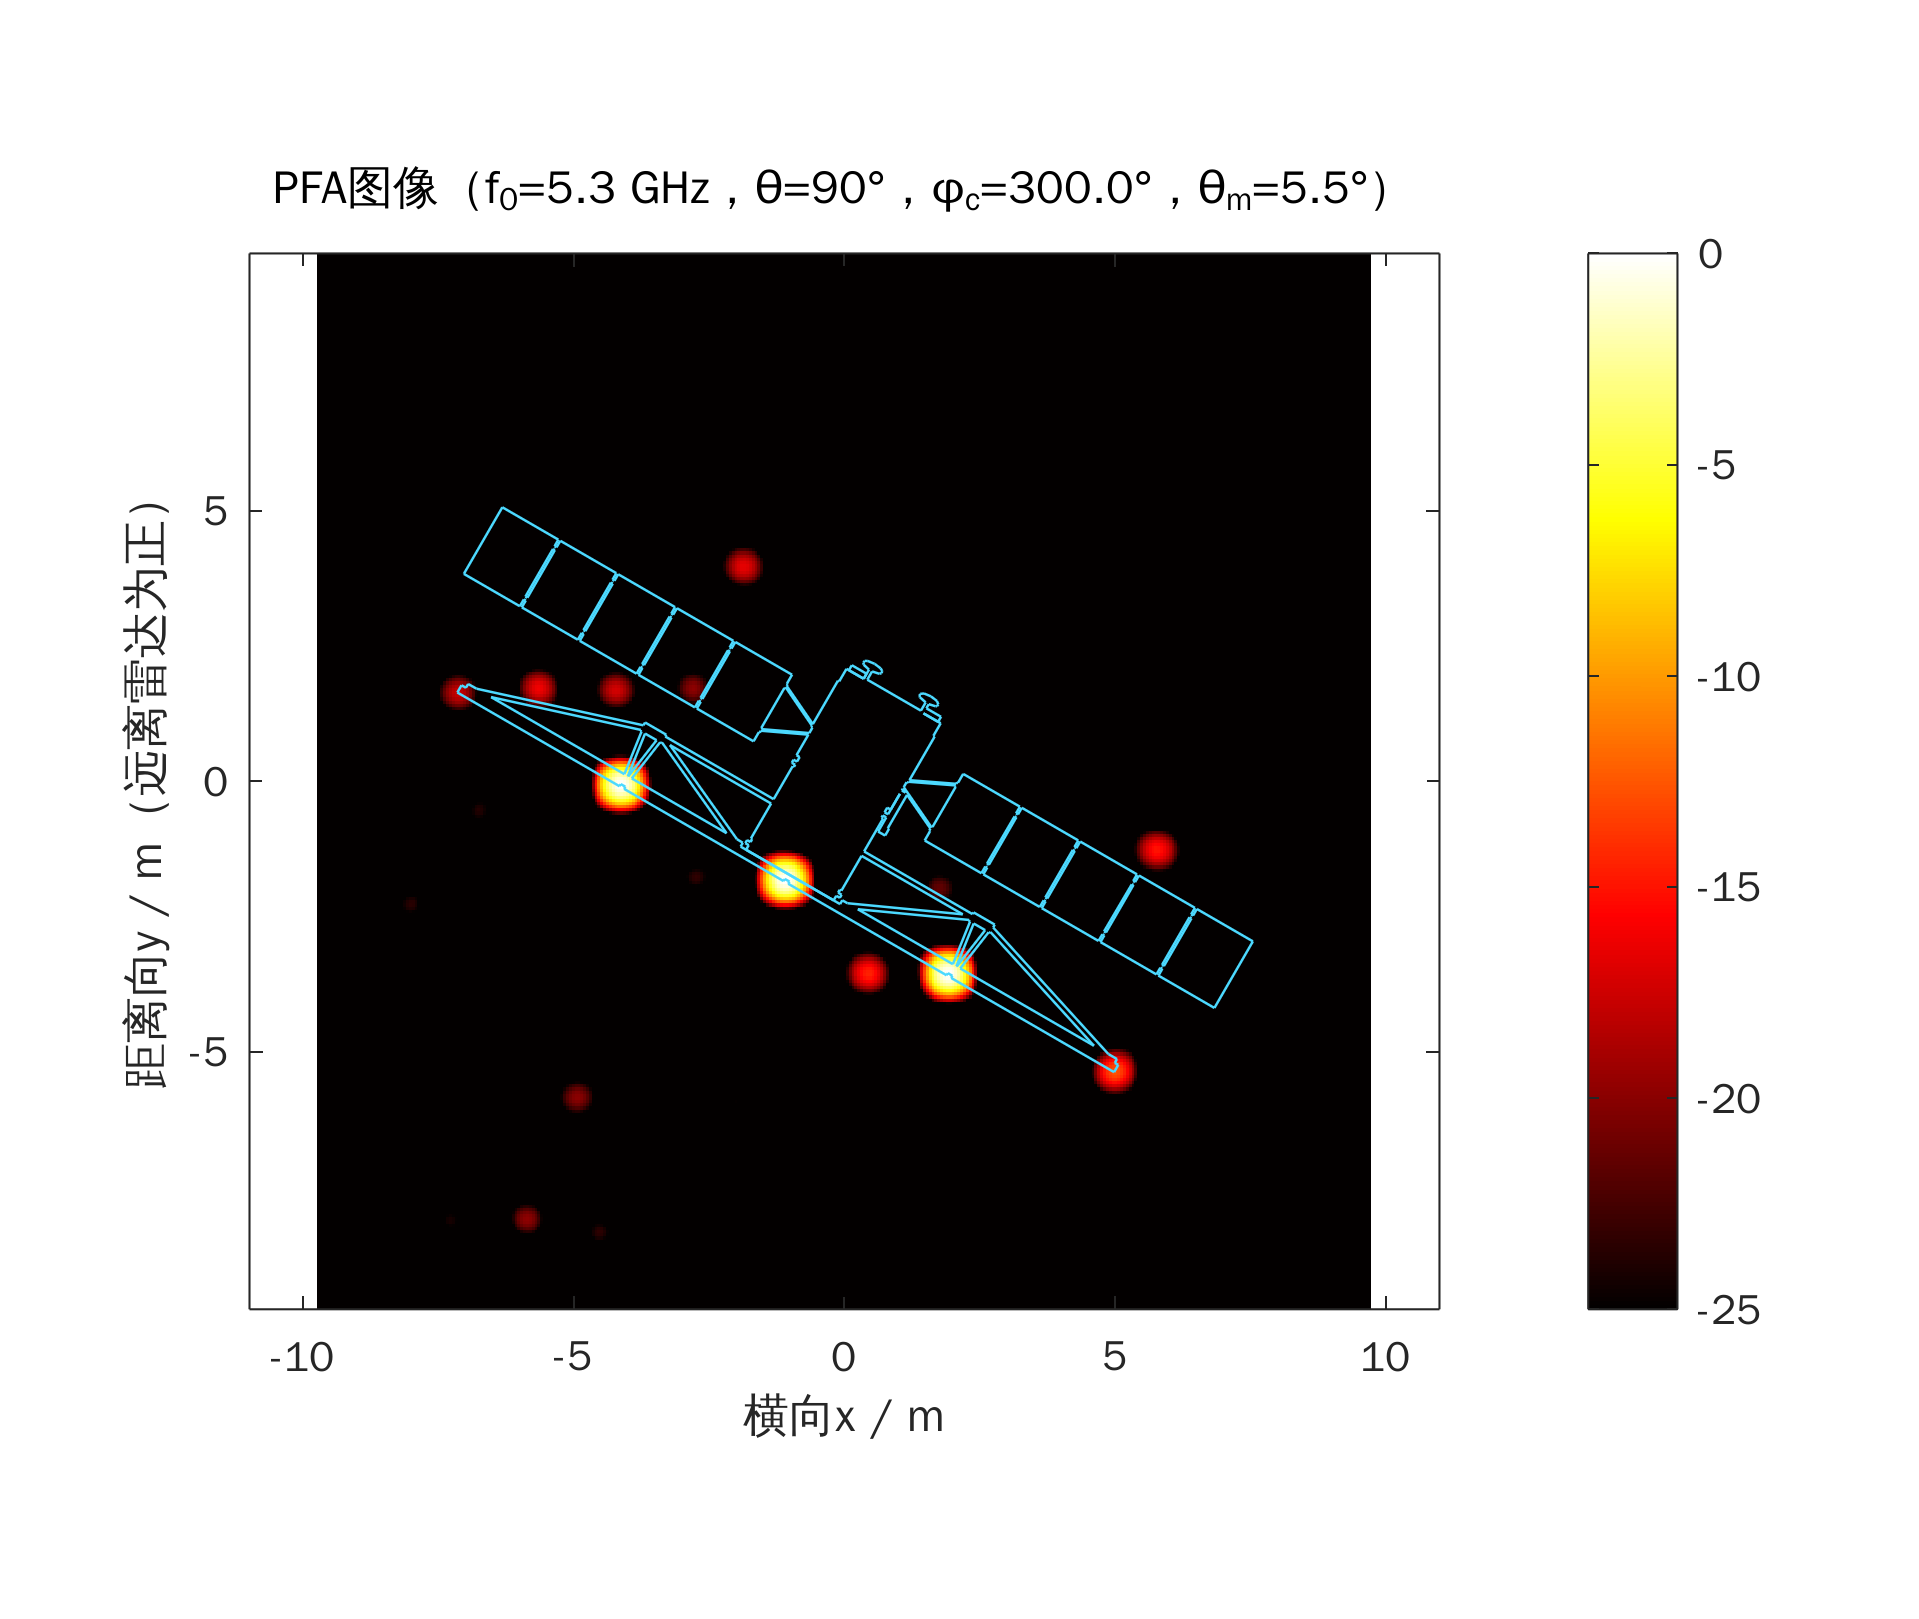
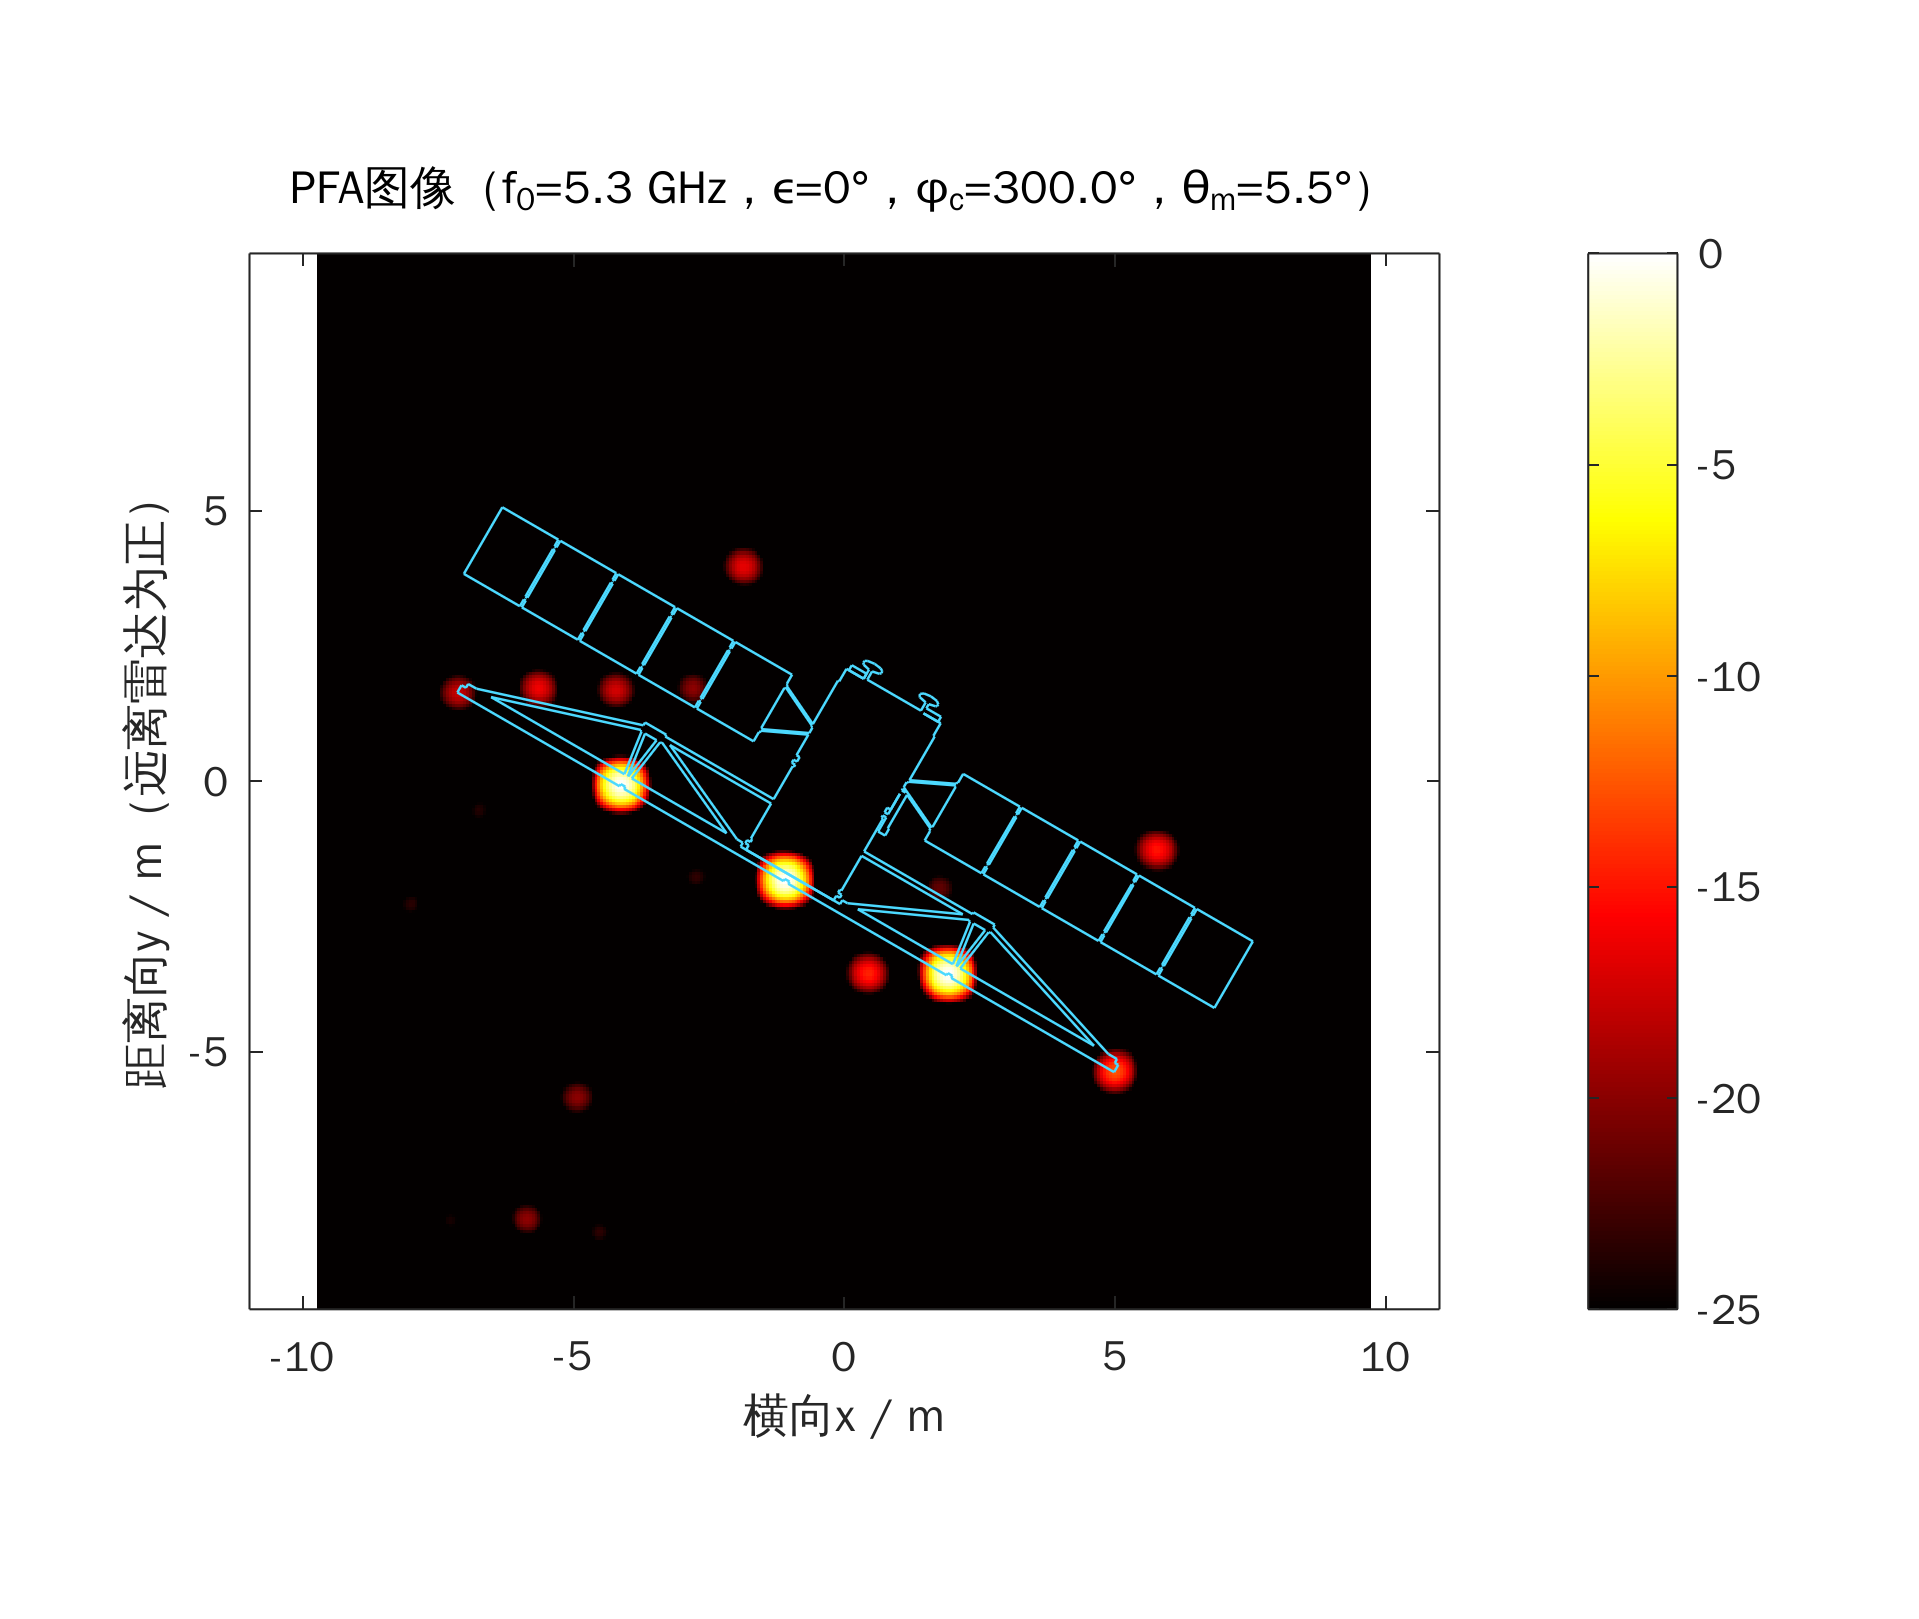
俯仰角统一记为ε（FEKO中θ=90°-ε）；参数设计计入俯仰修正与宽角扫描选项；补充计算A、B的FEKO设置
Claude-Session: https://claude.ai/code/session_01725vZYNoW8xbX1mxdUcgoL

Changed region(s): [[0.1537, 0.0926, 0.7071, 0.1235]]

diff --git a/isar/design_params.m b/isar/design_params.m
@@ -19,7 +19,10 @@ model_mode = 'radarsat1'; % 'radarsat1'：NASA RADARSAT-1模型（STL）；'sate
 rho_design = 0.3; % 设计分辨率（距离、横向相同），m；决定带宽与总转角
 os_ua = 1.5; % 不模糊窗口相对目标尺寸的余量：c/(2*delta_f)>os_ua*L，lambda/(2*delta_phi)>os_ua*L
 phi_c_deg = 300; % 中心观测方位角（FEKO的phi），deg；270°为正对-y方向（平板镜面闪烁）
-theta_inc_deg = 90; % 雷达俯仰：FEKO的theta，90°表示雷达位于xy平面内（转台平面）
+epsilon_deg = 0; % 雷达俯仰角ε，deg：0°为雷达与目标同高（在xy平面内），30°为雷达位于斜上方30°
+theta_inc_deg = 90-epsilon_deg; % FEKO平面波入射方向的天顶角θ（从+z轴量起）= 90°-ε
+phi_span_deg = 0; % 宽角扫描的总方位范围，deg；0表示只扫一个子孔径（总转角theta_m）。子孔径融合时如设为60
+c_el = cos(epsilon_deg*pi/180); % 俯仰修正：空间频率在xy平面内的分量为K*cos(ε)，水平面上的分辨率与窗口均除以cos(ε)
 pol_mode = 'VV'; % 'VV'：eta=0°，接收Etheta；'HH'：eta=90°，接收Ephi
 t_per_point = 0.18; % 每个(频点,角度)单站解的耗时，s；5.3 GHz、RL-GO射线密度Low实测（Normal约2.9 s/点）
 
@@ -55,36 +58,43 @@ target_radius = L/2; % 最大转动半径，m
 c = 3e8; % 光速，m/s
 f0 = 5.3e9; % 中心频率，Hz（C波段，RADARSAT-1自身SAR的工作频率；试算表明比X波段射线数少、计算快得多）
 lambda = c/f0; % 中心波长，m
-Br = c/(2*rho_design); % 扫频带宽，Hz
-rho_r = c/(2*Br); % 距离向理论分辨率，m（矩形窗）
+Br = c/(2*rho_design*c_el); % 扫频带宽，Hz（水平面上距离分辨率为rho_design）
+rho_r = c/(2*Br)/c_el; % 距离向理论分辨率（水平面投影，矩形窗），m
 f_min = f0-Br/2; f_max = f0+Br/2; % 扫频起止，Hz
 lambda_min = c/f_max; % 最短波长，m，用于角度采样的保守设计
 
 % 频率步进：不模糊距离 R_ua=c/(2*delta_f) 必须大于 os_ua*L
-delta_f_max = c/(2*os_ua*L); % 允许的最大频率步进，Hz
-% 把上限向下取到{1,2,2.5,5}×10^n序列中的“整”数
-p10 = 10^floor(log10(delta_f_max)); m_nice = [1,2,2.5,5,10];
+delta_f_max = c/(2*os_ua*L*c_el); % 允许的最大频率步进，Hz
+% 把上限向下取到{1,1.25,2,2.5,4,5,6.25,8}×10^n序列中的“整”数
+p10 = 10^floor(log10(delta_f_max)); m_nice = [1,1.25,2,2.5,4,5,6.25,8,10];
 delta_f = p10*m_nice(find(m_nice*p10<=delta_f_max,1,'last'));
 Nf = round(Br/delta_f)+1; % 频点数（含两端点）
-R_ua = c/(2*delta_f); % 不模糊距离窗，m
+R_ua = c/(2*delta_f)/c_el; % 不模糊距离窗（水平面投影），m
 f_axis = f_min+(0:Nf-1)*delta_f; % 频率轴，Hz
 
 %% 方位向参数（转角）
 % 横向分辨率 rho_a = lambda/(2*theta_m)，令 rho_a ≈ rho_r
 res_a = rho_design; % 希望达到的横向分辨率，m
-theta_m = lambda/(2*res_a); % 所需总转角，rad
+theta_m = lambda/(2*res_a*c_el); % 所需总转角（单个子孔径），rad
 % 角度步进：横向不模糊窗 X_ua = lambda_min/(2*delta_phi) 必须大于 os_ua*L
-delta_phi_max = lambda_min/(2*os_ua*L); % rad
-delta_phi_deg = floor(delta_phi_max*180/pi*100)/100; % 向下取到0.01°，便于在FEKO中填写
+delta_phi_max = lambda_min/(2*os_ua*L*c_el); % rad
+delta_phi_deg = floor(delta_phi_max*180/pi*200)/200; % 向下取到0.005°，便于在FEKO中填写
 delta_phi = delta_phi_deg*pi/180;
 % 角度点数：使总转角不小于所需值；再由步进反推实际总转角（保证FEKO中的数都是整齐的）
-Naz = ceil(theta_m*180/pi/delta_phi_deg)+1; % 角度点数（含两端点）
-theta_m_deg = delta_phi_deg*(Naz-1);
+Naz_sub = ceil(theta_m*180/pi/delta_phi_deg)+1; % 单个子孔径的角度点数（含两端点）
+theta_m_deg = delta_phi_deg*(Naz_sub-1);
 theta_m = theta_m_deg*pi/180;
-rho_a = lambda/(2*theta_m); % 实际理论横向分辨率，m
-X_ua = lambda_min/(2*delta_phi); % 横向不模糊窗（最高频处，最保守），m
-phi_start_deg = phi_c_deg-theta_m_deg/2; % FEKO中phi扫描起点，deg
-phi_end_deg = phi_c_deg+theta_m_deg/2; % FEKO中phi扫描终点，deg
+rho_a = lambda/(2*theta_m)/c_el; % 实际理论横向分辨率（水平面投影），m
+X_ua = lambda_min/(2*delta_phi)/c_el; % 横向不模糊窗（最高频处，最保守），m
+% FEKO中的方位扫描：单孔径时就是theta_m；宽角时为phi_span_deg（取步进的整数倍）
+if phi_span_deg>theta_m_deg
+    Naz = ceil(phi_span_deg/delta_phi_deg)+1;
+else
+    Naz = Naz_sub;
+end
+phi_scan_deg = delta_phi_deg*(Naz-1); % 实际方位扫描范围，deg
+phi_start_deg = phi_c_deg-phi_scan_deg/2; % FEKO中phi扫描起点，deg
+phi_end_deg = phi_c_deg+phi_scan_deg/2; % FEKO中phi扫描终点，deg
 phi_axis_deg = phi_start_deg+(0:Naz-1)*delta_phi_deg; % 方位角轴，deg
 theta_axis = (phi_axis_deg-phi_c_deg)*pi/180; % 相对中心的转角（逆时针看雷达=目标顺时针），rad
 
@@ -108,7 +118,7 @@ x_max = max(abs(x_img)); y_max = max(abs(y_img));
 % 转动距离徙动：横向x处的点在theta_m内距离变化约x*theta_m
 range_migration = x_max*theta_m;
 % 二次相位误差：y*(1-cos(theta))≈y*theta^2/2，取边缘theta=theta_m/2
-phase_error_max = 4*pi/lambda*max(sqrt(x_img.^2+y_img.^2))*(theta_m/2)^2/2;
+phase_error_max = 4*pi/lambda*c_el*max(sqrt(x_img.^2+y_img.^2))*(theta_m/2)^2/2;
 % 带宽引起的横向尺度变化：x方向多普勒正比于f，频带边缘横向位置相差x*Br/f0
 cross_scale_blur = x_max*Br/f0;
 
@@ -131,12 +141,13 @@ fprintf('中心频率f0=%.2f GHz，lambda=%.2f cm\n',f0/1e9,lambda*100);
 fprintf('带宽Br=%.0f MHz，扫频%.3f~%.3f GHz\n',Br/1e6,f_min/1e9,f_max/1e9);
 fprintf('频率步进delta_f=%.2f MHz（上限%.2f MHz），频点数Nf=%d\n',delta_f/1e6,delta_f_max/1e6,Nf);
 fprintf('不模糊距离R_ua=%.2f m（要求>%.2f m）\n',R_ua,os_ua*L);
-fprintf('总转角theta_m=%.2f deg，phi扫描%.3f~%.3f deg\n',theta_m_deg,phi_start_deg,phi_end_deg);
+fprintf('俯仰角epsilon=%.0f deg（FEKO平面波theta=%.0f deg）\n',epsilon_deg,theta_inc_deg);
+fprintf('子孔径总转角theta_m=%.2f deg（%d个角度）；FEKO中phi扫描%.3f~%.3f deg，共%d个角度\n',theta_m_deg,Naz_sub,phi_start_deg,phi_end_deg,Naz);
 fprintf('角度步进delta_phi=%.4f deg（上限%.4f deg），角度点数Naz=%d\n',delta_phi_deg,delta_phi_max*180/pi,Naz);
 fprintf('横向不模糊窗X_ua=%.2f m（要求>%.2f m）\n',X_ua,os_ua*L);
 fprintf('距离分辨率rho_r=%.3f m；横向分辨率rho_a=%.3f m\n',rho_r,rho_a);
 fprintf('目标占据分辨单元：距离%.0f个×横向%.0f个\n',cells_r,cells_a);
-fprintf('极化：%s（FEKO平面波eta=%d°，接收%s），雷达俯仰theta=%d°\n',upper(pol_mode),eta_deg,E_comp,theta_inc_deg);
+fprintf('极化：%s（FEKO平面波eta=%d°，接收%s）\n',upper(pol_mode),eta_deg,E_comp);
 fprintf('----- RD适用性（中心视角phi=%.1f°） -----\n',phi_c_deg);
 fprintf('最大横向|x|=%.2f m，最大距离|y|=%.2f m\n',x_max,y_max);
 fprintf('转动距离徙动约=%.3f m（半个距离单元=%.3f m）\n',range_migration,rho_r/2);
@@ -164,20 +175,21 @@ fprintf(fid,'| 带宽 | Br | %.0f MHz | %.3f~%.3f GHz |\n',Br/1e6,f_min/1e9,f_ma
 fprintf(fid,'| 频率步进 | Δf | %.2f MHz | 上限 c/(2·%.1fL) = %.2f MHz |\n',delta_f/1e6,os_ua,delta_f_max/1e6);
 fprintf(fid,'| 频点数 | Nf | %d | |\n',Nf);
 fprintf(fid,'| 不模糊距离 | c/(2Δf) | %.2f m | > %.1fL = %.2f m |\n',R_ua,os_ua,os_ua*L);
-fprintf(fid,'| 总转角 | θm | %.2f° | φ: %.3f°~%.3f° |\n',theta_m_deg,phi_start_deg,phi_end_deg);
+fprintf(fid,'| 子孔径总转角 | θm | %.2f° | %d 个角度 |\n',theta_m_deg,Naz_sub);
+fprintf(fid,'| FEKO 方位扫描 | φ | %.3f°~%.3f° | %d 个角度 |\n',phi_start_deg,phi_end_deg,Naz);
 fprintf(fid,'| 角度步进 | Δφ | %.4f° | 上限 λmin/(2·%.1fL) = %.4f° |\n',delta_phi_deg,os_ua,delta_phi_max*180/pi);
 fprintf(fid,'| 角度点数 | Naz | %d | |\n',Naz);
 fprintf(fid,'| 横向不模糊窗 | λmin/(2Δφ) | %.2f m | > %.2f m |\n',X_ua,os_ua*L);
 fprintf(fid,'| 距离分辨率 | ρr = c/(2Br) | %.3f m | 矩形窗 |\n',rho_r);
 fprintf(fid,'| 横向分辨率 | ρa = λ0/(2θm) | %.3f m | 矩形窗 |\n',rho_a);
 fprintf(fid,'| 极化 | | %s | 平面波 η=%d°，接收 %s |\n',upper(pol_mode),eta_deg,E_comp);
-fprintf(fid,'| 雷达俯仰 | θ | %d° | 雷达在转台平面内 |\n',theta_inc_deg);
+fprintf(fid,'| 俯仰角 | ε | %.0f° | FEKO 平面波 θ = 90° − ε = %.0f° |\n',epsilon_deg,theta_inc_deg);
 fprintf(fid,'| 中心方位 | φc | %.1f° | 相对 -y 方向转过 %.1f° |\n',phi_c_deg,phi_c_deg-270);
 fprintf(fid,'| 单站解总数 | Nf×Naz | %d | 另加 RCS 曲线 %d 点 |\n',N_total,N_rcs_cut);
 fclose(fid);
 save('design_params.mat','c','f0','lambda','Br','rho_r','delta_f','Nf','f_axis',...
     'theta_m','theta_m_deg','delta_phi_deg','Naz','phi_axis_deg','phi_c_deg',...
-    'theta_inc_deg','pol_mode','eta_deg','E_comp','rho_a','R_ua','X_ua','L','Model','model_mode');
+    'theta_inc_deg','epsilon_deg','Naz_sub','pol_mode','eta_deg','E_comp','rho_a','R_ua','X_ua','L','Model','model_mode');
 
 if ~exist('figures','dir'); mkdir('figures'); end
 

diff --git a/isar/ISAR_FEKO.m b/isar/ISAR_FEKO.m
@@ -39,10 +39,11 @@ if ~exist('figures','dir'); mkdir('figures'); end
 %% 读取数据与基本参数
 c = 3e8; % 光速，m/s
 [S_f_phi,f_axis,phi_axis_deg,ffe_info] = read_ffe(ffe_file,E_comp);
-% 雷达俯仰：theta=90°时雷达在xy平面内；theta<90°时斜视成像，
-% 空间频率在xy平面内的分量为K*sin(theta)，坐标除以sin(theta)即投影回水平面（地面投影）。
+% 俯仰角ε = 90°-θ（θ为FEKO平面波的天顶角）：ε=0时雷达在xy平面内；ε>0时雷达位于斜上方，
+% 空间频率在xy平面内的分量为K*cos(ε)，坐标除以cos(ε)即投影回水平面。
 theta_inc_deg = ffe_info.theta_deg;
-s_el = sin(theta_inc_deg*pi/180);
+epsilon_deg = 90-theta_inc_deg; % 俯仰角，deg
+s_el = cos(epsilon_deg*pi/180); % 俯仰修正系数cos(ε)
 [Nf,Naz] = size(S_f_phi);
 delta_f = mean(diff(f_axis)); % 频率步进，Hz
 f0 = (f_axis(1)+f_axis(end))/2; % 中心频率，Hz
@@ -201,8 +202,8 @@ end
 if has_truth; plot(x_true,y_true,'o','Color',outline_color,'MarkerSize',8,'LineWidth',1); end
 hold off;
 xlabel('横向x / m'); ylabel('距离向y / m（远离雷达为正）');
-title(sprintf('%s图像（f_0=%.1f GHz，\\theta=%.0f°，\\phi_c=%.1f°，\\theta_m=%.1f°）',...
-    name_main,f0/1e9,theta_inc_deg,phi_c_deg,theta_m*180/pi));
+title(sprintf('%s图像（f_0=%.1f GHz，\\epsilon=%.0f°，\\phi_c=%.1f°，\\theta_m=%.1f°）',...
+    name_main,f0/1e9,epsilon_deg,phi_c_deg,theta_m*180/pi));
 colormap(cmap); caxis([-dynamic_range_dB,0]); colorbar;
 print(gcf,'-dpng','-r300',['figures/fig04_ISAR_image',fig_tag,'.png']);
 
@@ -272,7 +273,7 @@ print(gcf,'-dpng','-r300',['figures/fig06_sign_check',fig_tag,'.png']);
 fprintf('\n======= ISAR转台成像参数 =======\n');
 fprintf('数据矩阵：Nf=%d个频点 × Naz=%d个方位角\n',Nf,Naz);
 fprintf('f0=%.3f GHz，Br=%.1f MHz，delta_f=%.2f MHz\n',f0/1e9,Br/1e6,delta_f/1e6);
-fprintf('方位：%.3f~%.3f deg，中心%.3f deg，theta_m=%.2f deg\n',...
+fprintf('俯仰角epsilon=%.0f deg；方位：%.3f~%.3f deg，中心%.3f deg，theta_m=%.2f deg\n',epsilon_deg,...
     phi_axis_deg(1),phi_axis_deg(end),phi_c_deg,theta_m*180/pi);
 fprintf('距离分辨率rho_r=%.3f m；补零后距离网格=%.3f m\n',rho_r,dr_image);
 fprintf('横向分辨率rho_a=%.3f m；补零后横向网格=%.3f m\n',rho_a,dx_image);

diff --git a/isar/FEKO_操作步骤.md b/isar/FEKO_操作步骤.md
@@ -93,3 +93,16 @@
 | *Only a single plane wave source with multiple incident directions is allowed* | 建了两个平面波源。在 *Configuration* 页删掉多余的一个，远场请求也只留一个 |
 | 打开了 *Far Field Source* 对话框 | 那是"远场源"（激励）。远场**请求**在 *Request* 选项卡 |
 | ISAR 图整体转了 180° 或左右镜像 | 先确认 φ 是从小到大扫描；`read_ffe.m` 会自动按 φ 升序排列。仍不对就对照 `figures/fig06_sign_check.png` 找我 |
+
+## 6. 计算 A、B：俯仰角 ε = 30°（汇报中的融合与分辨率对比）
+
+俯仰角 ε 是雷达高出卫星水平面（xy 平面）的角度；FEKO 平面波里填的 θ 是从 +z 轴量起的天顶角，**θ = 90° − ε**。
+以下参数由 `design_params.m` 计算（选项 `epsilon_deg`、`phi_span_deg`、`rho_design`），频率、射线密度（Low）、绕射（不勾选）、远场请求的其余设置不变。
+
+| 计算 | 用途 | 平面波 θ | 平面波 φ（Start / End / Increment） | 频率（Start / End / 点数） | 单站解数 | 预计（0.18 s/点） |
+|---|---|---|---|---|---|---|
+| 试算 | 测 ε = 30° 时每点耗时 | `60` | `270` / `330` / `6` | 单频 `5.3e9` | 11 | 数秒 |
+| A | 子孔径融合；中间 6.3° 也作 0.3 m 单孔径 | `60` | `269.97` / `330.03` / `0.07`（859 个） | `5.0114e9` / `5.5886e9` / `93`（步进 6.25 MHz） | 79 887 | 约 4 小时 |
+| B | 0.15 m 高分辨率单孔径 | `60` | `293.7275` / `306.2725` / `0.065`（194 个） | `4.7226e9` / `5.8774e9` / `186`（步进 6.25 MHz） | 36 084 | 约 1.8 小时 |
+
+每次求解后把 `.ffe` 改名保存（如 `radarsat1_A.ffe`、`radarsat1_B.ffe`），避免被下一次覆盖。

diff --git a/isar/params_table.md b/isar/params_table.md
@@ -6,13 +6,14 @@
 | 频率步进 | Δf | 5.00 MHz | 上限 c/(2·1.5L) = 6.17 MHz |
 | 频点数 | Nf | 101 | |
 | 不模糊距离 | c/(2Δf) | 30.00 m | > 1.5L = 24.32 m |
-| 总转角 | θm | 5.46° | φ: 297.270°~302.730° |
+| 子孔径总转角 | θm | 5.46° | 92 个角度 |
+| FEKO 方位扫描 | φ | 297.270°~302.730° | 92 个角度 |
 | 角度步进 | Δφ | 0.0600° | 上限 λmin/(2·1.5L) = 0.0637° |
 | 角度点数 | Naz | 92 | |
 | 横向不模糊窗 | λmin/(2Δφ) | 25.81 m | > 24.32 m |
 | 距离分辨率 | ρr = c/(2Br) | 0.300 m | 矩形窗 |
 | 横向分辨率 | ρa = λ0/(2θm) | 0.297 m | 矩形窗 |
 | 极化 | | VV | 平面波 η=0°，接收 Etheta |
-| 雷达俯仰 | θ | 90° | 雷达在转台平面内 |
+| 俯仰角 | ε | 0° | FEKO 平面波 θ = 90° − ε = 90° |
 | 中心方位 | φc | 300.0° | 相对 -y 方向转过 30.0° |
 | 单站解总数 | Nf×Naz | 9292 | 另加 RCS 曲线 721 点 |
